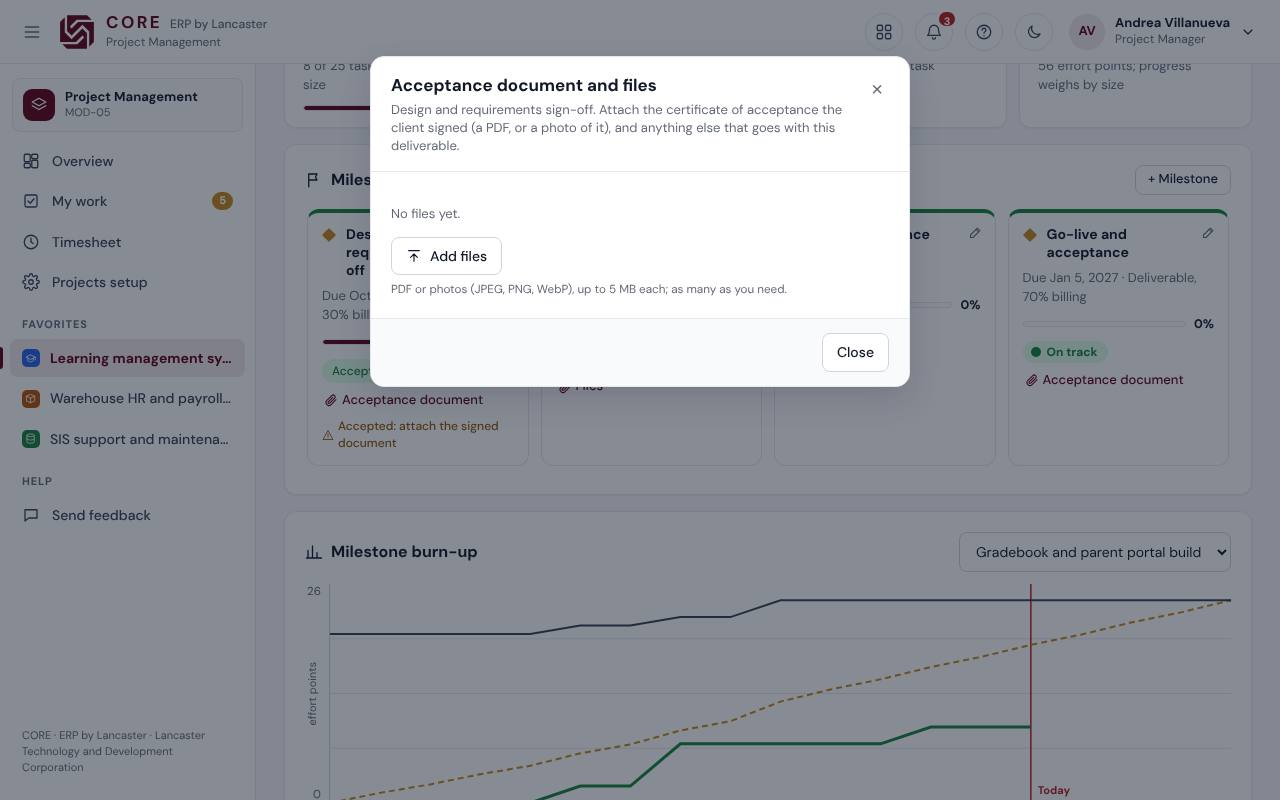
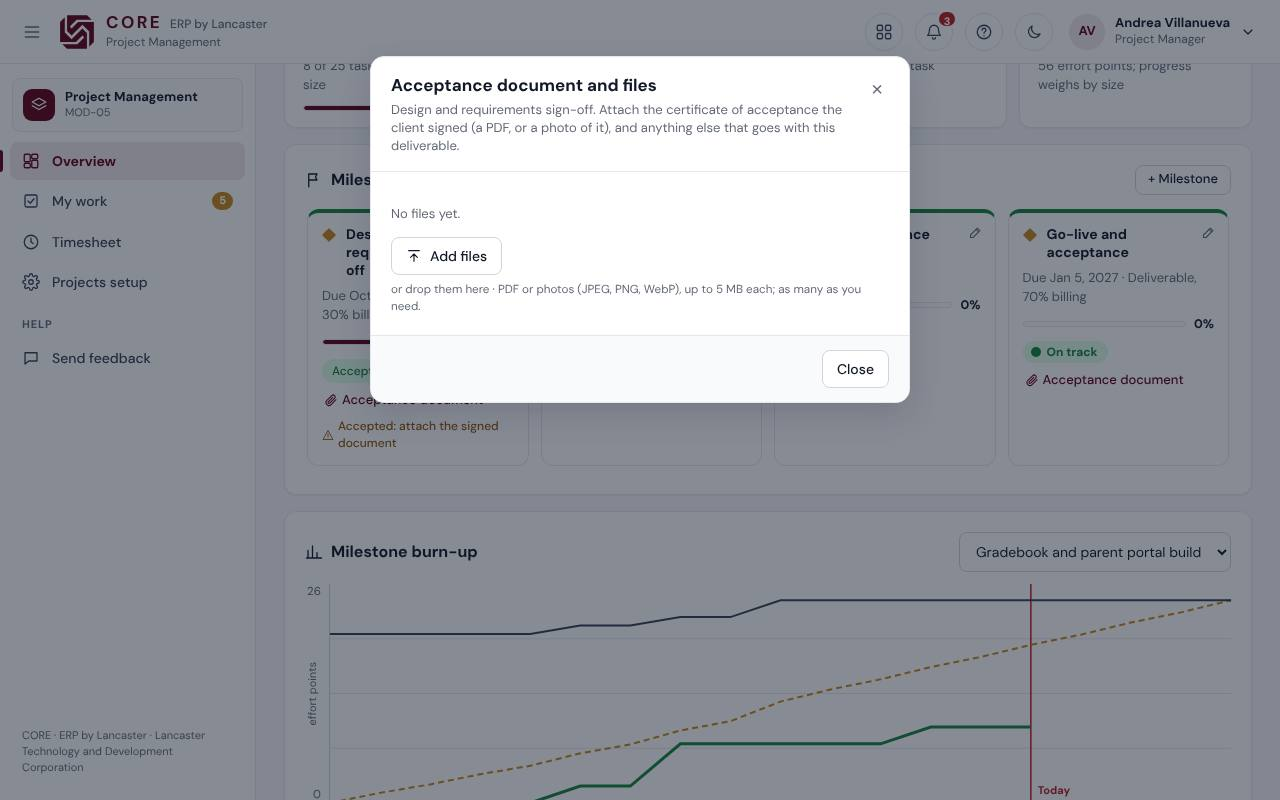
0.53.0-alpha: drag and drop files onto a task
- Files from the computer dropped on a task's Files card, or on a
  milestone's files window, are uploaded one by one like Add files.
  While files are dragged over CORE the card shows a dashed edge; over
  it, "Drop to attach".
- A file not taken (another type, too large) is skipped and named; the
  others are still added. A file dropped anywhere else is ignored
  instead of the browser leaving CORE to open it.
- Journey: a task link opened, files dropped on the task. The guide
  screenshot script can show a drag in progress.
- Projects guide steps and screenshot, what's new, dev log.

Claude-Session: https://claude.ai/code/session_01JQ4oxiUA7CnD1ir2UC84uB

diff --git a/public/js/views/projects.js b/public/js/views/projects.js
@@ -358,25 +358,96 @@ function fileBlock(list, base, canAdd) {
       ${a.canDelete ? html`<button type="button" class="icon-btn danger" data-del-file="${a.id}" aria-label="Remove ${a.name}">${icon('trash', 16)}</button>` : ''}</li>`)}</ul>`
     : html`<p class="muted small">No files yet.</p>`}
     ${canAdd ? html`<div class="pm-file-add"><label class="btn">${icon('upload', 16)} Add files<input type="file" class="sr-only" accept="${ACCEPT}" multiple data-add-file /></label>
-        <small class="muted">PDF or photos (JPEG, PNG, WebP), up to 5 MB each; as many as you need.</small></div>` : ''}`;
+        <small class="muted"><span class="pm-drop-hint">or drop them here · </span>PDF or photos (JPEG, PNG, WebP), up to 5 MB each; as many as you need.</small></div>
+      <div class="pm-drop-veil" aria-hidden="true">${icon('upload', 22)}<strong>Drop to attach</strong><small>PDF or photos, up to 5 MB each</small></div>` : ''}`;
 }
-// Uploads everything picked, one file at a time, and removes on request; done(list) gets the new list.
+// While files from the computer are dragged over CORE, the places that take them light up
+// (body.dragging-files, 0.53). A file let go anywhere else is ignored, instead of the browser
+// leaving CORE to open it.
+let fileDrags = 0;
+const draggingFiles = (e) => [...(e.dataTransfer?.types || [])].includes('Files');
+const endFileDrag = () => {
+  fileDrags = 0;
+  document.body.classList.remove('dragging-files');
+};
+window.addEventListener('dragenter', (e) => {
+  if (!draggingFiles(e)) return;
+  fileDrags += 1;
+  document.body.classList.add('dragging-files');
+});
+window.addEventListener('dragleave', (e) => draggingFiles(e) && (fileDrags -= 1) <= 0 && endFileDrag());
+window.addEventListener('dragend', endFileDrag);
+window.addEventListener('dragover', (e) => {
+  if (!draggingFiles(e) || e.defaultPrevented) return;
+  e.preventDefault();
+  e.dataTransfer.dropEffect = 'none';
+});
+window.addEventListener('drop', (e) => {
+  if (draggingFiles(e) && !e.defaultPrevented) e.preventDefault();
+  endFileDrag();
+});
+// Uploads the files picked or dropped, one at a time, and removes on request; done(list) gets the
+// new list. A file CORE does not take (a Word file, one too large) is skipped and named, the others
+// are still added. The drop zone is the card (or window) around `root`.
 function wireFiles(root, base, list, done) {
-  root.querySelector('[data-add-file]')?.addEventListener('change', guard(async (e) => {
-    const input = e.target;
-    const picked = [...input.files];
-    input.disabled = true;
-    let out = null;
-    try {
-      for (const f of picked) out = await api.post(base, { file: await prepareUpload(f) });
-    } finally {
-      input.disabled = false;
-      if (out) {
-        toast(`${plural(picked.length, 'file')} added.`);
-        await done(out.attachments);
+  const input = root.querySelector('[data-add-file]');
+  if (input) {
+    let busy = false;
+    const upload = async (files) => {
+      if (busy || !files.length) return;
+      busy = true;
+      input.disabled = true;
+      zone.classList.add('pm-uploading');
+      let out = null;
+      const skipped = [];
+      try {
+        for (const f of files) {
+          try {
+            out = await api.post(base, { file: await prepareUpload(f) });
+          } catch (err) {
+            skipped.push(`${f.name}: ${err.message}`);
+          }
+        }
+      } finally {
+        busy = false;
+        input.disabled = false;
+        zone.classList.remove('pm-uploading');
       }
-    }
-  }, () => done(null)));
+      const added = files.length - skipped.length;
+      if (skipped.length) toast(`${added ? `${plural(added, 'file')} added. ` : ''}Not added: ${skipped.join('; ')}`, 'error');
+      else toast(`${plural(added, 'file')} added.`);
+      await done(out ? out.attachments : null);
+    };
+    input.addEventListener('change', (e) => {
+      const picked = [...e.target.files];
+      e.target.value = '';
+      upload(picked);
+    });
+    // Drag and drop (0.53): files from the computer dropped on the card are added the same way.
+    const zone = root.closest('.card, .modal') || root;
+    zone.classList.add('pm-dropzone');
+    let depth = 0;
+    zone.addEventListener('dragenter', (e) => {
+      if (!draggingFiles(e)) return;
+      depth += 1;
+      zone.classList.add('pm-drop-over');
+    });
+    zone.addEventListener('dragleave', (e) => {
+      if (draggingFiles(e) && (depth -= 1) <= 0) (depth = 0), zone.classList.remove('pm-drop-over');
+    });
+    zone.addEventListener('dragover', (e) => {
+      if (!draggingFiles(e)) return;
+      e.preventDefault();
+      e.dataTransfer.dropEffect = busy ? 'none' : 'copy';
+    });
+    zone.addEventListener('drop', (e) => {
+      if (!draggingFiles(e)) return;
+      e.preventDefault();
+      depth = 0;
+      zone.classList.remove('pm-drop-over');
+      upload([...e.dataTransfer.files]);
+    });
+  }
   root.querySelectorAll('[data-del-file]').forEach((b) => b.addEventListener('click', guard(async () => {
     const a = list.find((x) => x.id === b.dataset.delFile);
     if (!(await confirmDialog(`Remove the file "${a.name}"?`, { title: 'Remove file', confirmLabel: 'Remove' }))) return;

diff --git a/public/css/styles.css b/public/css/styles.css
@@ -3485,3 +3485,16 @@ a.hub-role:hover { background: rgba(255, 255, 255, 0.26); }
 .pm-task-key { display: inline-flex; align-items: center; gap: 4px; padding: 1px 8px; border-radius: 999px; border: 1px solid var(--border); background: var(--surface); color: var(--brand-text); font: 600 12.5px/20px var(--mono, ui-monospace, monospace); vertical-align: 1px; }
 .pm-task-key:hover { text-decoration: none; border-color: var(--brand-line); background: var(--brand-softer); }
 @media (pointer: coarse) { .pm-task-key { min-height: 32px; padding: 4px 10px; } }
+
+/* Drag and drop files onto a task's Files card or a milestone's files (0.53): while files are
+   dragged over CORE the card shows a dashed edge; over it, a veil says "Drop to attach". */
+.pm-dropzone { position: relative; }
+.pm-drop-veil { display: none; }
+body.dragging-files .pm-dropzone { outline: 2px dashed color-mix(in srgb, var(--brand) 45%, var(--border)); outline-offset: 3px; }
+.pm-dropzone.pm-drop-over .pm-drop-veil { display: grid; place-content: center; justify-items: center; gap: 4px; position: absolute; inset: 0; z-index: 5; border-radius: inherit;
+  background: color-mix(in srgb, var(--brand-soft) 88%, transparent); border: 2px dashed var(--brand); color: var(--brand-text); text-align: center; pointer-events: none; }
+.pm-drop-veil strong { font-size: 16px; }
+.pm-drop-veil small { color: var(--text-2); }
+.pm-dropzone.pm-uploading .pm-file-add .btn { opacity: 0.6; cursor: progress; }
+@media (pointer: coarse) { .pm-drop-hint { display: none; } }
+@media (prefers-reduced-motion: no-preference) { .pm-dropzone { transition: outline-color 0.15s; } }

diff --git a/shared/devlog.js b/shared/devlog.js
@@ -28,6 +28,17 @@ export const CHANGE_TYPES = { new: 'Added', improved: 'Changed', fixed: 'Fixed' 
 
 export const DEVLOG = [
   {
+    version: '0.53.0-alpha',
+    date: '2026-11-21',
+    title: 'Drag and drop files onto a task',
+    modules: ['projects'],
+    notes: 'Files from the computer dropped on a task\'s Files card are attached.',
+    changes: [
+      ['new', 'projects', 'Drag and drop: files dropped on a task\'s Files card, or on a milestone\'s files window, are uploaded one by one, like Add files. While files are dragged over CORE the card shows a dashed edge; over it, "Drop to attach". A file not taken (another type, too large) is skipped and named in the message; the others are added.'],
+      ['improved', 'projects', 'Add files: one file refused no longer stops the rest; a file dropped anywhere else in CORE is ignored instead of the browser leaving CORE to open it.'],
+    ],
+  },
+  {
     version: '0.52.0-alpha',
     date: '2026-11-21',
     title: 'Project keys and task links',

diff --git a/docs/guides/projects.md b/docs/guides/projects.md
@@ -408,14 +408,17 @@ Watchers hear, under **For you**, of every comment on the task and of it being m
 ### Attach files to a task or a deliverable
 
 1. On a task, under **Files**, click **Add files** and pick PDFs or photos (JPEG, PNG or WebP; up to 5 MB each, as many as you need). Large photos are made smaller first.
-2. For a milestone, click **Files** on its card on the project's **Overview** (on a deliverable, **Acceptance document**) and add files the same way.
-3. Click a file's name to download it. The bin removes it.
+2. Or drag the files from your computer (a folder, the desktop, an email) and drop them on the **Files** card. While you drag, the card has a dashed edge; over it, it says **Drop to attach**. Drop several at once if you like. A file CORE does not take (a Word file, for example, or one too large) is left out and named in the message; the others are added.
+3. For a milestone, click **Files** on its card on the project's **Overview** (on a deliverable, **Acceptance document**) and add files the same way: pick them, or drop them on that window.
+4. Click a file's name to download it. The bin removes it.
 
 Members and managers add files; everyone who can open the project downloads them; the person who added a file or a project manager removes it. Adding and removing are in the task's (or the project's) history. When you set **Accepted on** for a deliverable that has no document yet, CORE reminds you to attach the signed certificate, and the card says so until you do. Deleting a task, a milestone or the project deletes its files.
 
 > **Note:** Files are kept in CORE's `data` folder, not in the backup file from **Admin panel → Backup & restore → Download backup**. Your administrator copies the `data` folder to keep them (see [the administrator's guide](admin)).
 
 ![A deliverable's acceptance document](projects-files.jpg)
+
+![Files dropped on a task's Files card](projects-drop-files.jpg)
 
 ### Move tasks on the board
 

diff --git a/docs/guides/whats-new.md b/docs/guides/whats-new.md
@@ -9,6 +9,9 @@ order: 2
 
 ## November 2026
 
+### Drag and drop files onto a task (0.53)
+- In **Project Management**, drop files from your computer on a task's **Files** card (or a milestone's files window) to attach them, several at once. A file CORE does not take is left out and named; the others are added. See [Attach files to a task or a deliverable](projects#attach-files-to-a-task-or-a-deliverable).
+
 ### Task keys and links to share (0.52)
 - Each project has a **key** of three letters, its own or the first three letters of its name, and its tasks are named with it: **LEA-1**, **LEA-2**…. Every task has a link to share, `/t/LEA-12`: **Copy link** on the task. Existing tasks were renamed (*PRJ-0001-12* is now, for example, *LEA-12*), and their old names still open them. See [Share a link to a task](projects#share-a-link-to-a-task).
 
